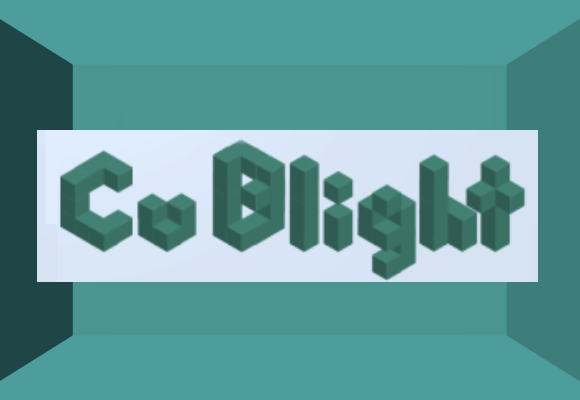
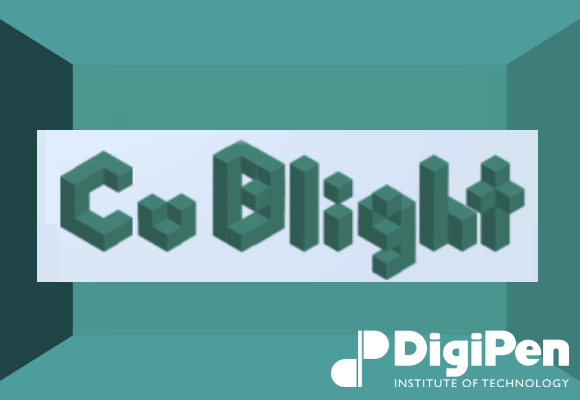
Fixed links added cublight

Changed region(s): [[0.5586, 0.81, 0.9931, 0.99]]

diff --git a/cublight.html b/cublight.html
@@ -3,7 +3,7 @@
   <head>
     <meta charset="UTF-8" />
     <meta http-equiv="X-UA-Compatible" content="IE=edge" />
-    <title>Olive Adventure</title>
+    <title>CuBlight</title>
     <link rel="preconnect" href="https://fonts.googleapis.com" />
     <link rel="preconnect" href="https://fonts.gstatic.com" crossorigin />
     <link
@@ -57,23 +57,18 @@
       <br />
       <br />
       <h2 style="margin-left: 5%">
-        <a href="work.html">« Back to projects</a>
+        <a href="work.html#academicProjects">« Back to projects</a>
       </h2>
       <br />
       <br />
       <section class="about">
-        <h3>Olive Adventure - Technical/Gameplay Designer</h3>
-        <h4>Top Down Shooter (Pixel Game Jam 2022)</h4>
+        <h3>CuBlight - Technical/Gameplay Designer</h3>
+        <h4>Abstract Roguelike (DigiPen GAM350 Team Project)</h4>
         <div class="video_content">
-          <video autoplay="true" loop="true" muted="true" playsinline>
-            <source src="images/olive_adventure.mp4" type="video/mp4" />
-          </video>
+          <iframe width="560" height="315" src="https://www.youtube.com/embed/_XYrlOpdHuI?si=QSVFjbp6HkhQkS3Q" title="YouTube video player" frameborder="0" allow="accelerometer; autoplay; clipboard-write; encrypted-media; gyroscope; picture-in-picture; web-share" allowfullscreen></iframe>
         </div>
         <p style="margin-top: 25px; line-height: 1.5">
-          Olive Adventure was created for the 3-day long Pixel Game Jam 2022 on
-          itch.io (<a href="https://mpetersondev.itch.io/olive-adventure"
-            >Play it here!</a
-          >) by a team comprised of myself and two of my peers.
+          CuBlight is an abstract isometric roguelike made for our GAM350 class in my Junior year. 
         </p>
         <br />
         <hr />
@@ -81,10 +76,17 @@
         <br />
         <h3>Project Overview:</h3>
         <p>
-          The Pixel Game Jam was originally designed so that teams would have 3
-          full days to work on and submit their projects. There was a given
-          theme of "Adventure" for teams to work with. Our team consisted of
-          myself, one artist, and one sound designer.
+          Our goal for the project was to create a fun, abstract atmosphere using
+          only primative shapes and limited visual assets. We did not have an artist
+          on the team, meaning that we had to stick to very simplistic models outside
+          of the assets in the game that were base primitives. 
+          
+          <br><br>
+          The game is very simple,
+          you start at a specific position on a 2x2 grid map and work your way from top to bottom,
+          each level expanding the size of the map on each axis. You can shoot, you can dash, and
+           you can "execute" enemies by dashing into them while they're low on health. You gain 
+           EXP from defeating enemies and can receive "perks" on level up to accentuate your arsenal. There is a boss at the end of the game.
         </p>
         <br />
         <hr />
@@ -92,12 +94,13 @@
         <br />
         <h3>My Role:</h3>
         <p>
-          As the director and sole programmer, I spent my time coding a
-          character controller, enemy AI, tiles and collisions, and the rest of
-          the game's vital systems before submission. The game was designed to
-          be a top-down twin stick shooter where enemies would drop collectibles
-          that would change the pattern and properties of projectiles fired by
-          the player.
+          Our team was large (12 people) and I was a late addition, but I took
+          up the role of "Quality Director" and Gameplay Designer. I helped design
+          the EXP system and the implementation of dashing and executions, as well as the hat system. 
+          I regularly offered direction on user experience design, and helped guide some technical implementation.
+          <br><br>
+          During my role as a quality director, I was in charge of documentation between commits and builds,
+          as well as presenting information to shareholders and driving presentations. 
         </p>
         <br />
         <hr />
@@ -105,14 +108,12 @@
         <br />
         <h3>Project Hurdles:</h3>
         <p>
-          Although the game jam period was three days, I contracted a moderate
-          illness after the first day that left me unable to contribute to the
-          project. My team and I lost an entire day of in-engine work as a
-          result, and I ended up having to put in extra crunch hours up until
-          the final seconds of submission in order to accomplish the level of
-          polish I expected from the project despite my absence for a third of
-          the time period allowed. I'm proud of what I was able to accomplish
-          despite the time loss.
+          As mentioned, our team composition left some artistic limitations; when I was brought onto
+          the team, the theme of "simplistic primitives" was already decided. The rest of the team was
+          dedicated to using simple geometric shapes to represent everything in the game. I voiced concerns
+          about this decision when we quickly ran out of simple shapes to use that would appropriately deliver
+          adequate amounts of significance and feedback. I guided the team away from this design decision while
+          keeping the core aesthetic intact. 
         </p>
         <br />
         <hr />
@@ -120,9 +121,7 @@
         <br />
         <h3>Project Reception:</h3>
         <p>
-          Out of 55 entries to the jam, Olive Adventure earned #3 in Theme
-          Relevance, #3 in General Design, and #6 in Pixel Art. The overall
-          placement of the game was 3rd out of 55.
+          The project received higher than a 5/5.
         </p>
 
         <br />

diff --git a/draculad.html b/draculad.html
@@ -71,7 +71,7 @@
         </div>
         <p style="margin-top: 25px; line-height: 1.5">
           Draculad was created for the 3-day long Mini Jam #118 on itch.io (<a
-            href="https://sevithian.itch.io/draculad-minijam118"
+            href="https://mpetersondev.itch.io/draculad-minijam118"
             >Play it here!</a
           >) by a team comprised of myself and two of my peers.
         </p>

diff --git a/work.html b/work.html
@@ -81,6 +81,9 @@
         </p>
         <br />
         <div class="projectDisplay">
+          <a href="cublight.html"
+            ><img class="projectBanner" src="images/cublight-banner.png"
+          /></a>
           <a href="shattered-soul.html"
             ><img class="projectBanner" src="images/shattered-soul-banner.png"
           /></a>
